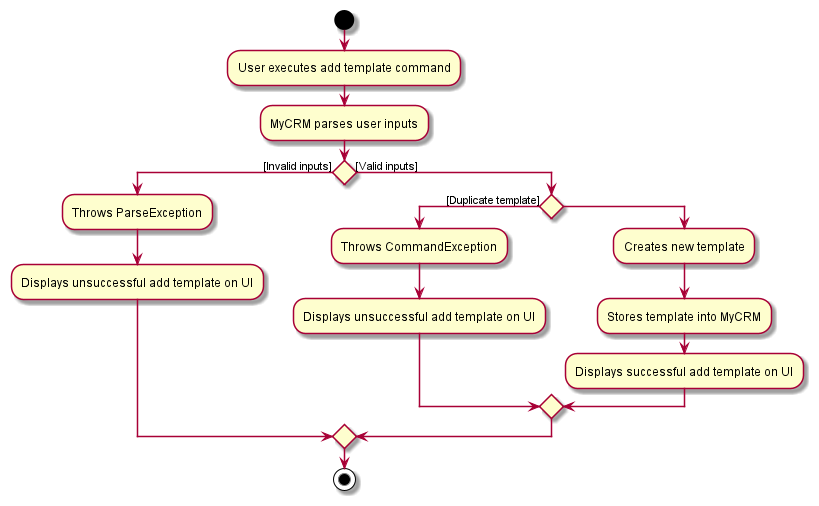
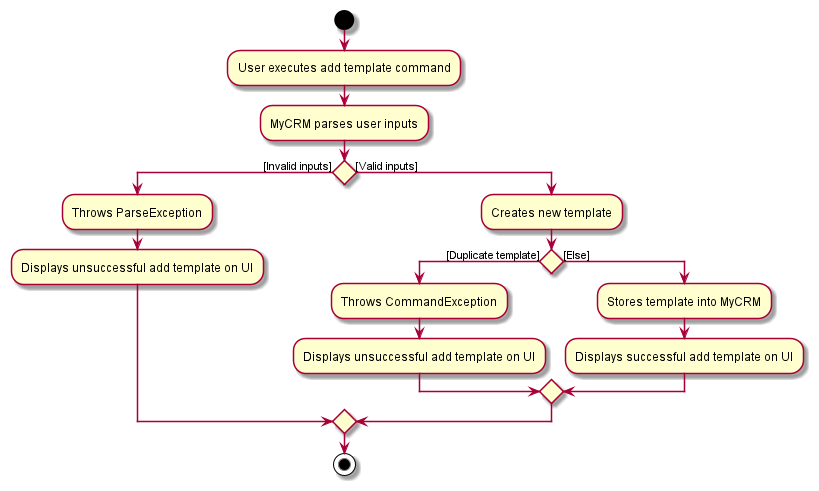
Fix DG template activity diagrams

Changed region(s): [[0.0, 0.0611, 1.0, 0.8554], [0.1526, 0.8248, 0.6716, 0.9776]]

diff --git a/docs/DeveloperGuide.md b/docs/DeveloperGuide.md
@@ -185,7 +185,7 @@ The `Model` component,
 **API** : [`Storage.java`](https://github.com/se-edu/addressbook-level3/tree/master/src/main/java/seedu/address/storage/Storage.java)
 
 <a href="https://ay2122s1-cs2103-t14-3.github.io/tp/images/StorageClassDiagram.png">
-<img src="images/StorageClassDiagram.png" width="550" />
+<img src="images/StorageClassDiagram.png" width="600" />
 </a>
 
 The `Storage` component,
